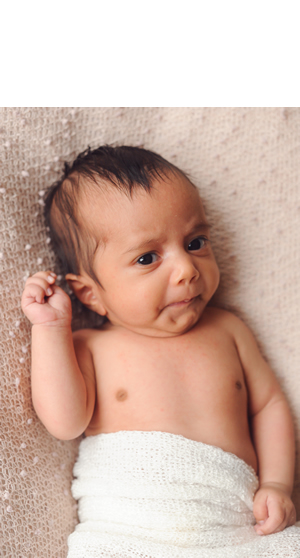
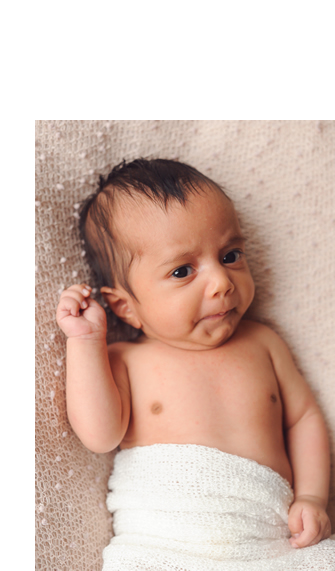
tweak readme image with false padding.

diff --git a/README.md b/README.md
@@ -1,4 +1,4 @@
-<img alt="an egg slicer" src="/docs/hayaan-smirk.jpg" align="right" style="padding:12px;">
+<img alt="hayaan fugate" src="/docs/hayaan-smirk.jpg" align="right">
 
 dpf
 ===
